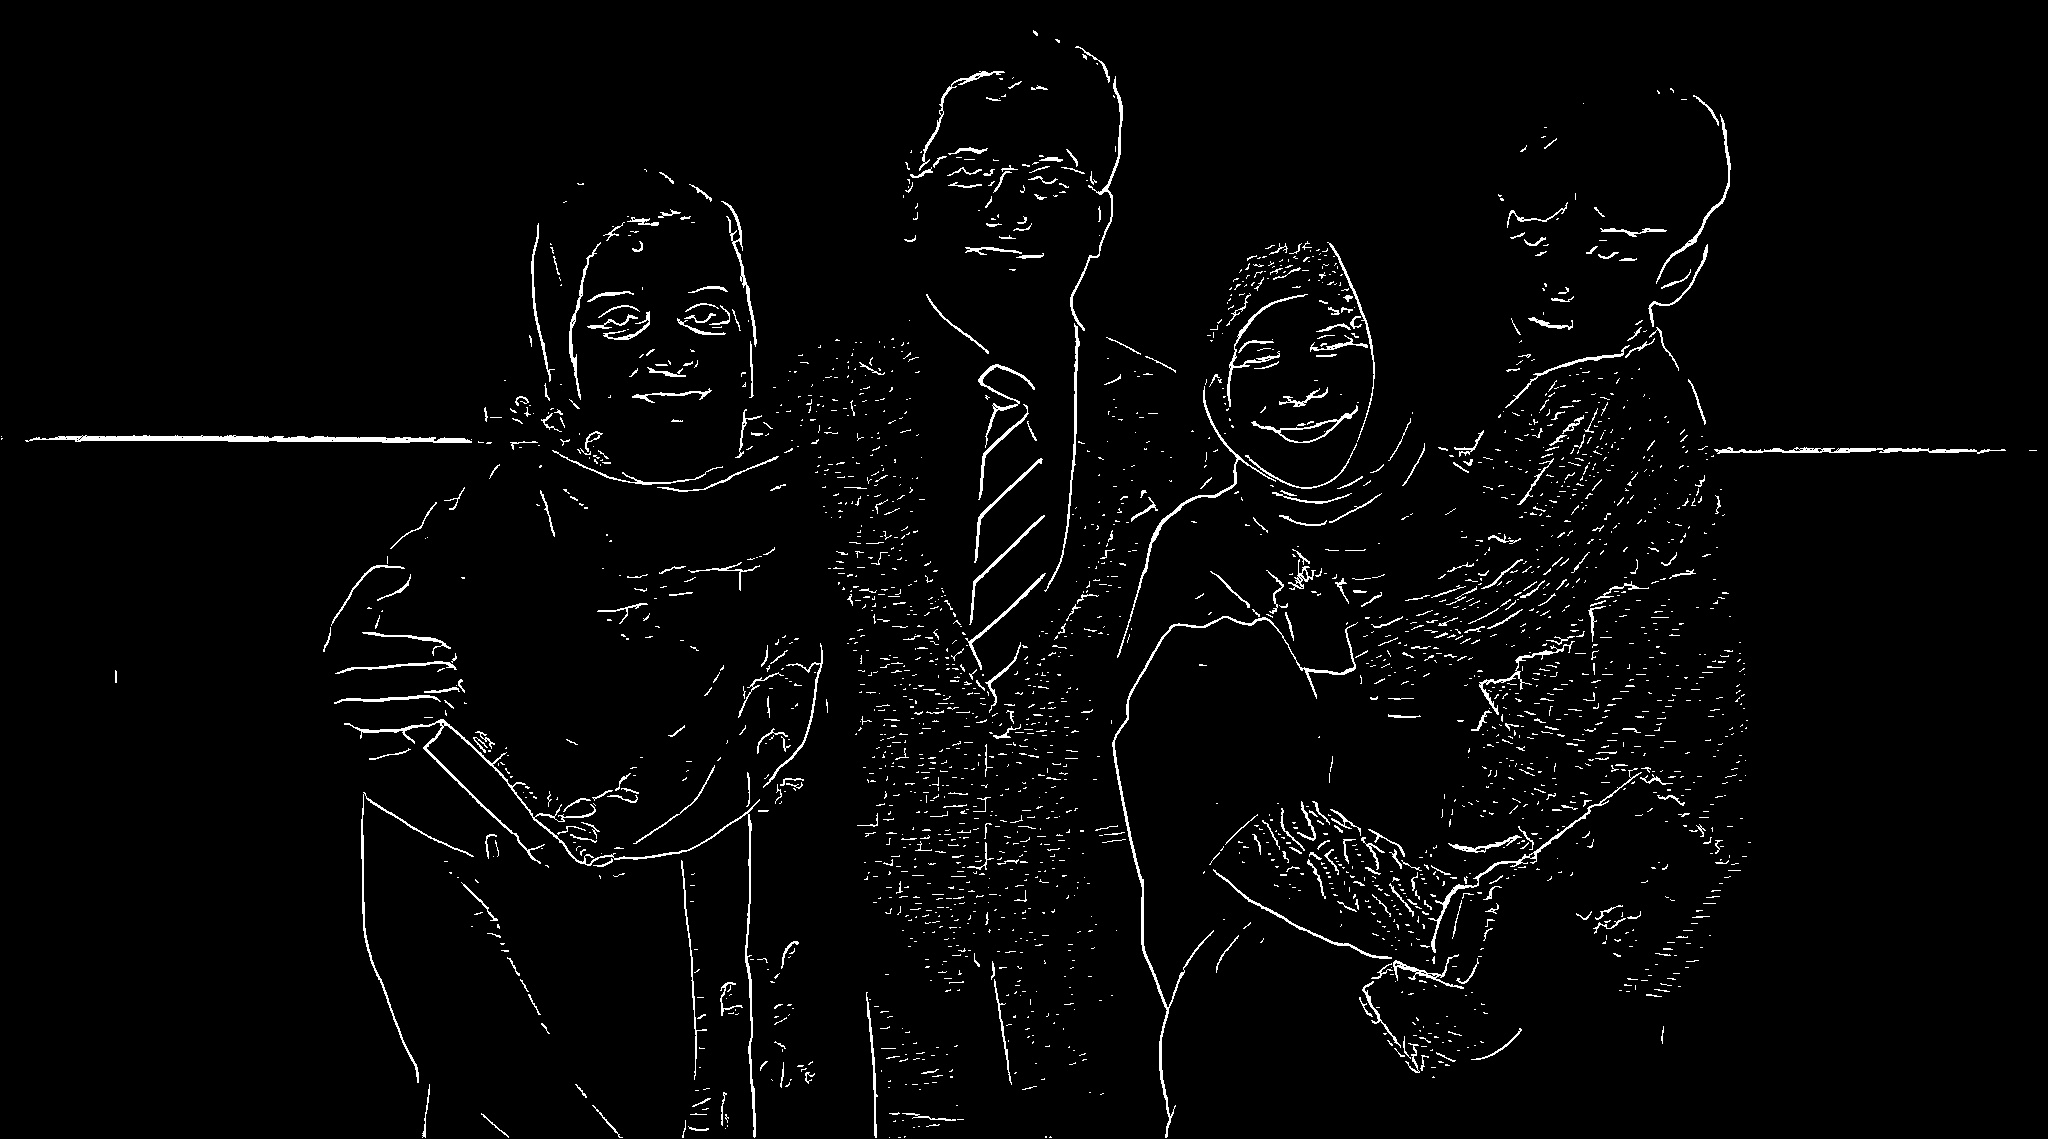
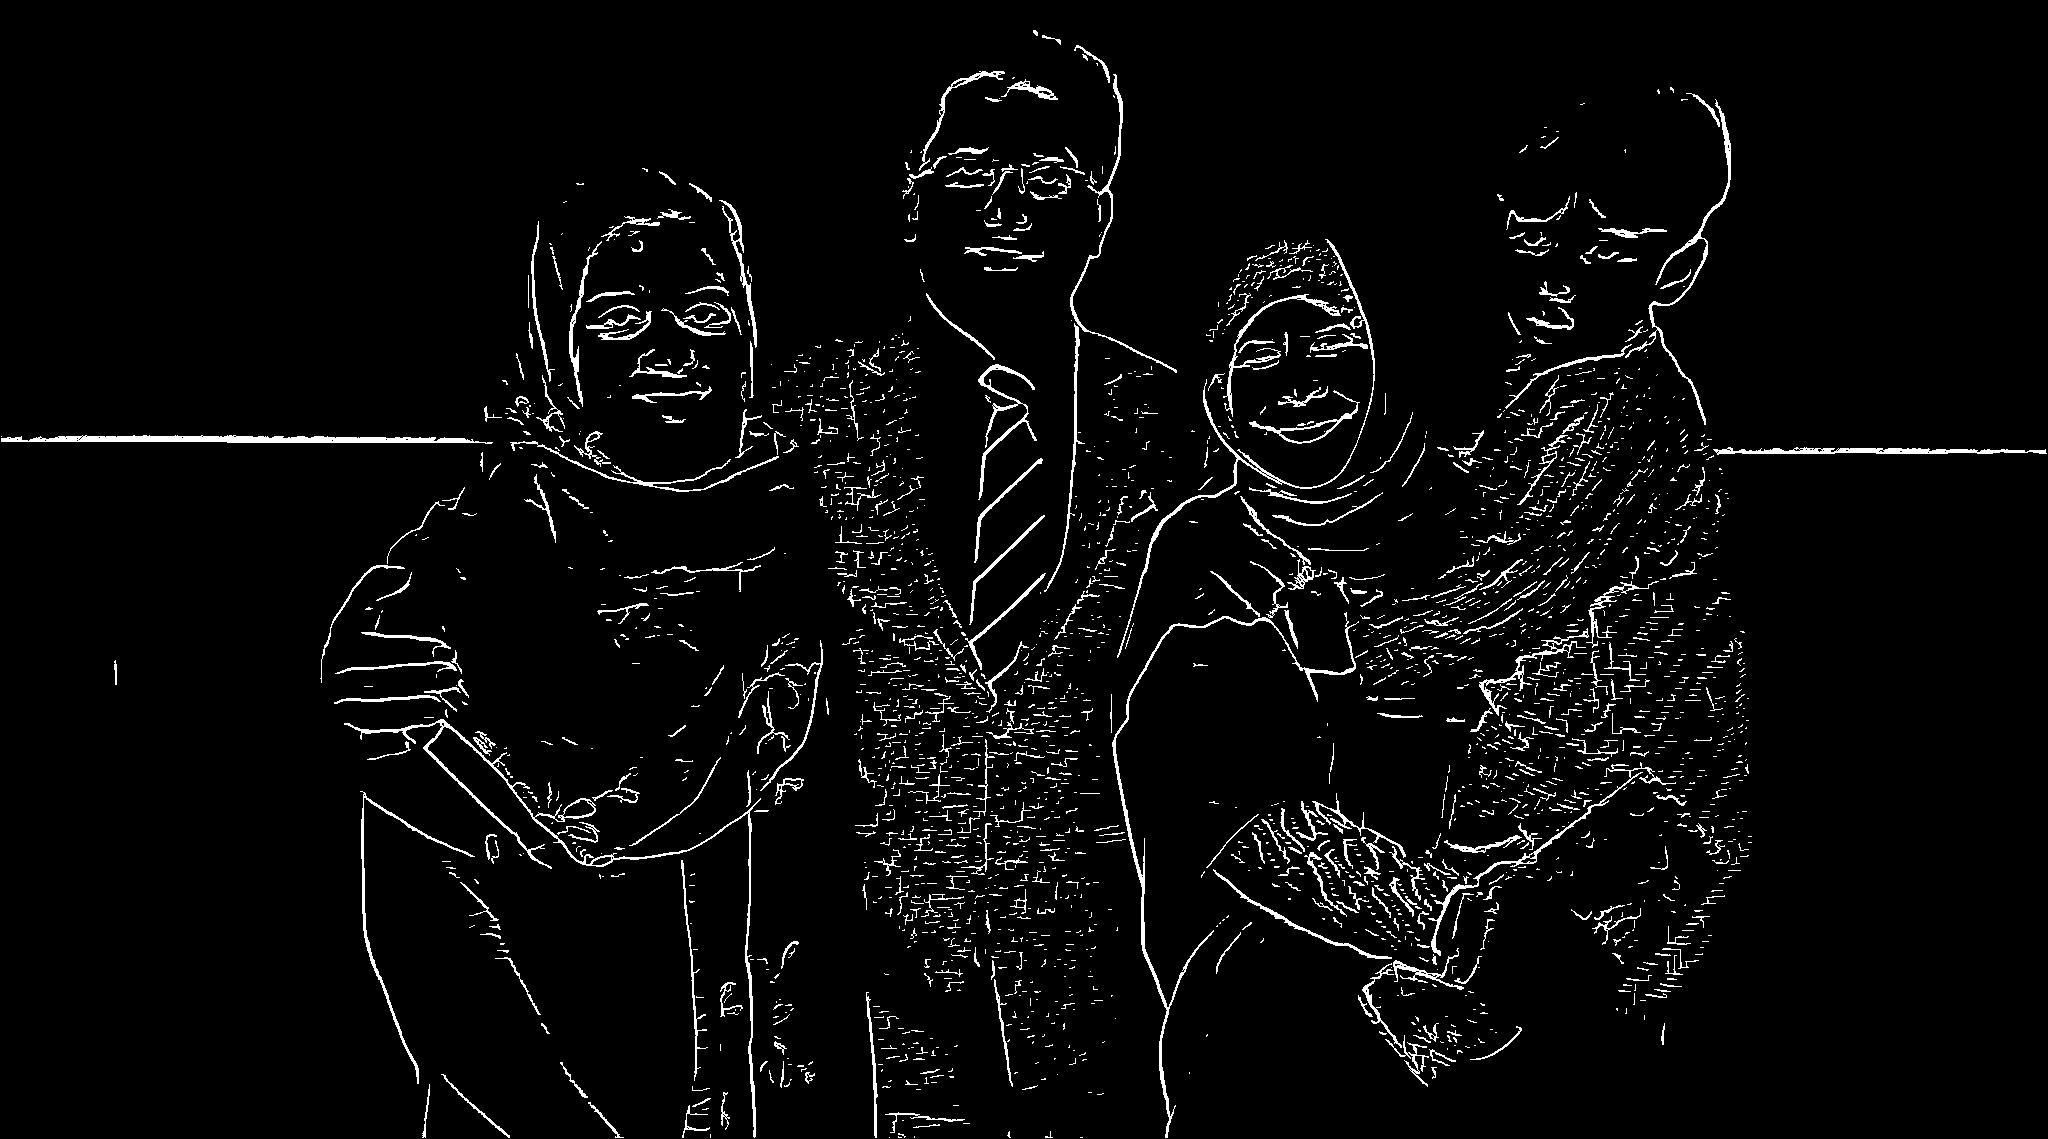
Updated

diff --git a/test.py b/test.py
@@ -56,7 +56,6 @@ def convolve(image, kernel):
             output[r, c] = value
     return output
 
-
 #Implementation of Canny Edge detection algorithm my Shibli
 
 # Step 1: Gaussian Filter using raw code
@@ -87,7 +86,7 @@ for i in np.arange(2, height - 2):
 cv2.imwrite("images/filter_gaussian_Boss_family.jpg", image)
 
 print("Gaussian Filter done")
-# step 2: compute gradient magnitude
+# step 2: compute gradient magnitude and angle
 
 Hx = np.array([[-1, 0, 1],
                [-2, 0, 2],
@@ -105,8 +104,8 @@ magnitude = (magnitude / np.max(magnitude)) * 255
 cv2.imwrite("images/Sobel_Boss_Family.jpg", magnitude)
 print("sobel is done")
 
-# step 3: non-maximum suppression
-t_low = 4
+# step 3: non-maxima suppression
+t_low = 2
 E_nms = np.zeros((height, width))
 for i in np.arange(1, height - 1):
     for j in np.arange(1, width - 1):
@@ -117,8 +116,8 @@ for i in np.arange(1, height - 1):
         if locmax.is_local_max(magnitude, i, j, s_theta, t_low):
             E_nms[i, j] = magnitude[i, j]
 
-# step 4: edge tracing and hysteresis thresholding
-t_high = 7
+# step 4: Double/hysteresis thresholding and connectivity analysis
+t_high = 6
 E_bin = np.zeros((height, width))
 for i in np.arange(1, height - 1):
     for j in np.arange(1, width - 1):
